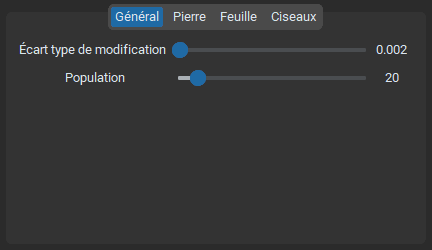
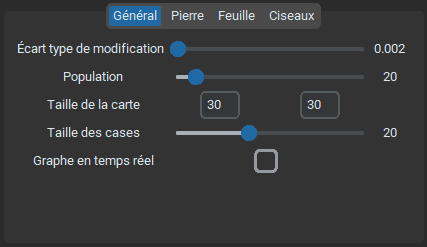
mise à jour de la doc

diff --git a/doc/Documentation.md b/doc/Documentation.md
@@ -83,6 +83,12 @@ Ces paramètres modifient la configuration générale de la simulation :
 
 - `Population` : Défini le nombre d'entités initialement présentes dans chaque population. Le nombre total d'entités au début d'une simulation est donc ce paramètre multiplié par 3. L'augmentation de ce paramètre à un fort impact sur les performances de la simulation en temps réel.
 
+- `Taile de la carte` : Défini les dimensions X et Y de la carte pour la prochaine simulation.
+
+- `Taille des cases` : Défini la taille des entités sur la carte. Pour une même taille de carte, une plus grande taille des cases augmente la taille du caneva.
+
+- `Graphe en temps réel` : Active ou désactive la mise à jour en temps réel du graphe durant la simulation. Ce paramètre est appliqué instantanément (pas besoin de recommencer une simulation)
+
 ### Paramètres des populations
 
 ![Paramètres des populations](assets/population_settings.png)
@@ -117,7 +123,7 @@ Cette simulation comporte 3 populations différentes qui possède chacune une po
 
 ## La carte
 
-La simulation se déroule sur une carte rectangulaire topologogiquement assimilable à un tore, c'est à dire que les entités qui sortent d'un côté de la carte réapparaissent de l'autre côté. Cette carte est divisé en cases, et chaque case ne peut contenir qu'une seule entité. 
+La simulation se déroule sur une carte rectangulaire topologiquement assimilable à un tore, c'est à dire que les entités qui sortent d'un côté de la carte réapparaissent de l'autre côté. Cette carte est divisé en cases, et chaque case ne peut contenir qu'une seule entité. 
 <!-- Les dimensions de la carte ainsi que la taille des cases sont définies dans les [paramètres généraux](#paramètres-généraux) de la simulation. -->
 
 ## Les entités
